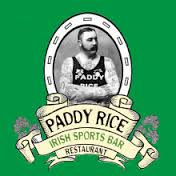
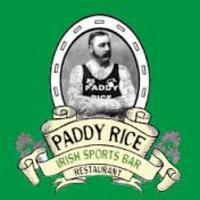
Resize images

diff --git a/app/uploaders/image_uploader.rb b/app/uploaders/image_uploader.rb
@@ -4,7 +4,7 @@ class ImageUploader < CarrierWave::Uploader::Base
 
   # Include RMagick or MiniMagick support:
   # include CarrierWave::RMagick
-  # include CarrierWave::MiniMagick
+ include CarrierWave::MiniMagick
  if Rails.env.production?
     storage :fog
  else
@@ -33,7 +33,7 @@ class ImageUploader < CarrierWave::Uploader::Base
 
   # Create different versions of your uploaded files:
   # version :thumb do
-  #   process :resize_to_fit => [50, 50]
+  process :resize_to_fit => [200, 300]
   # end
 
   # Add a white list of extensions which are allowed to be uploaded.
